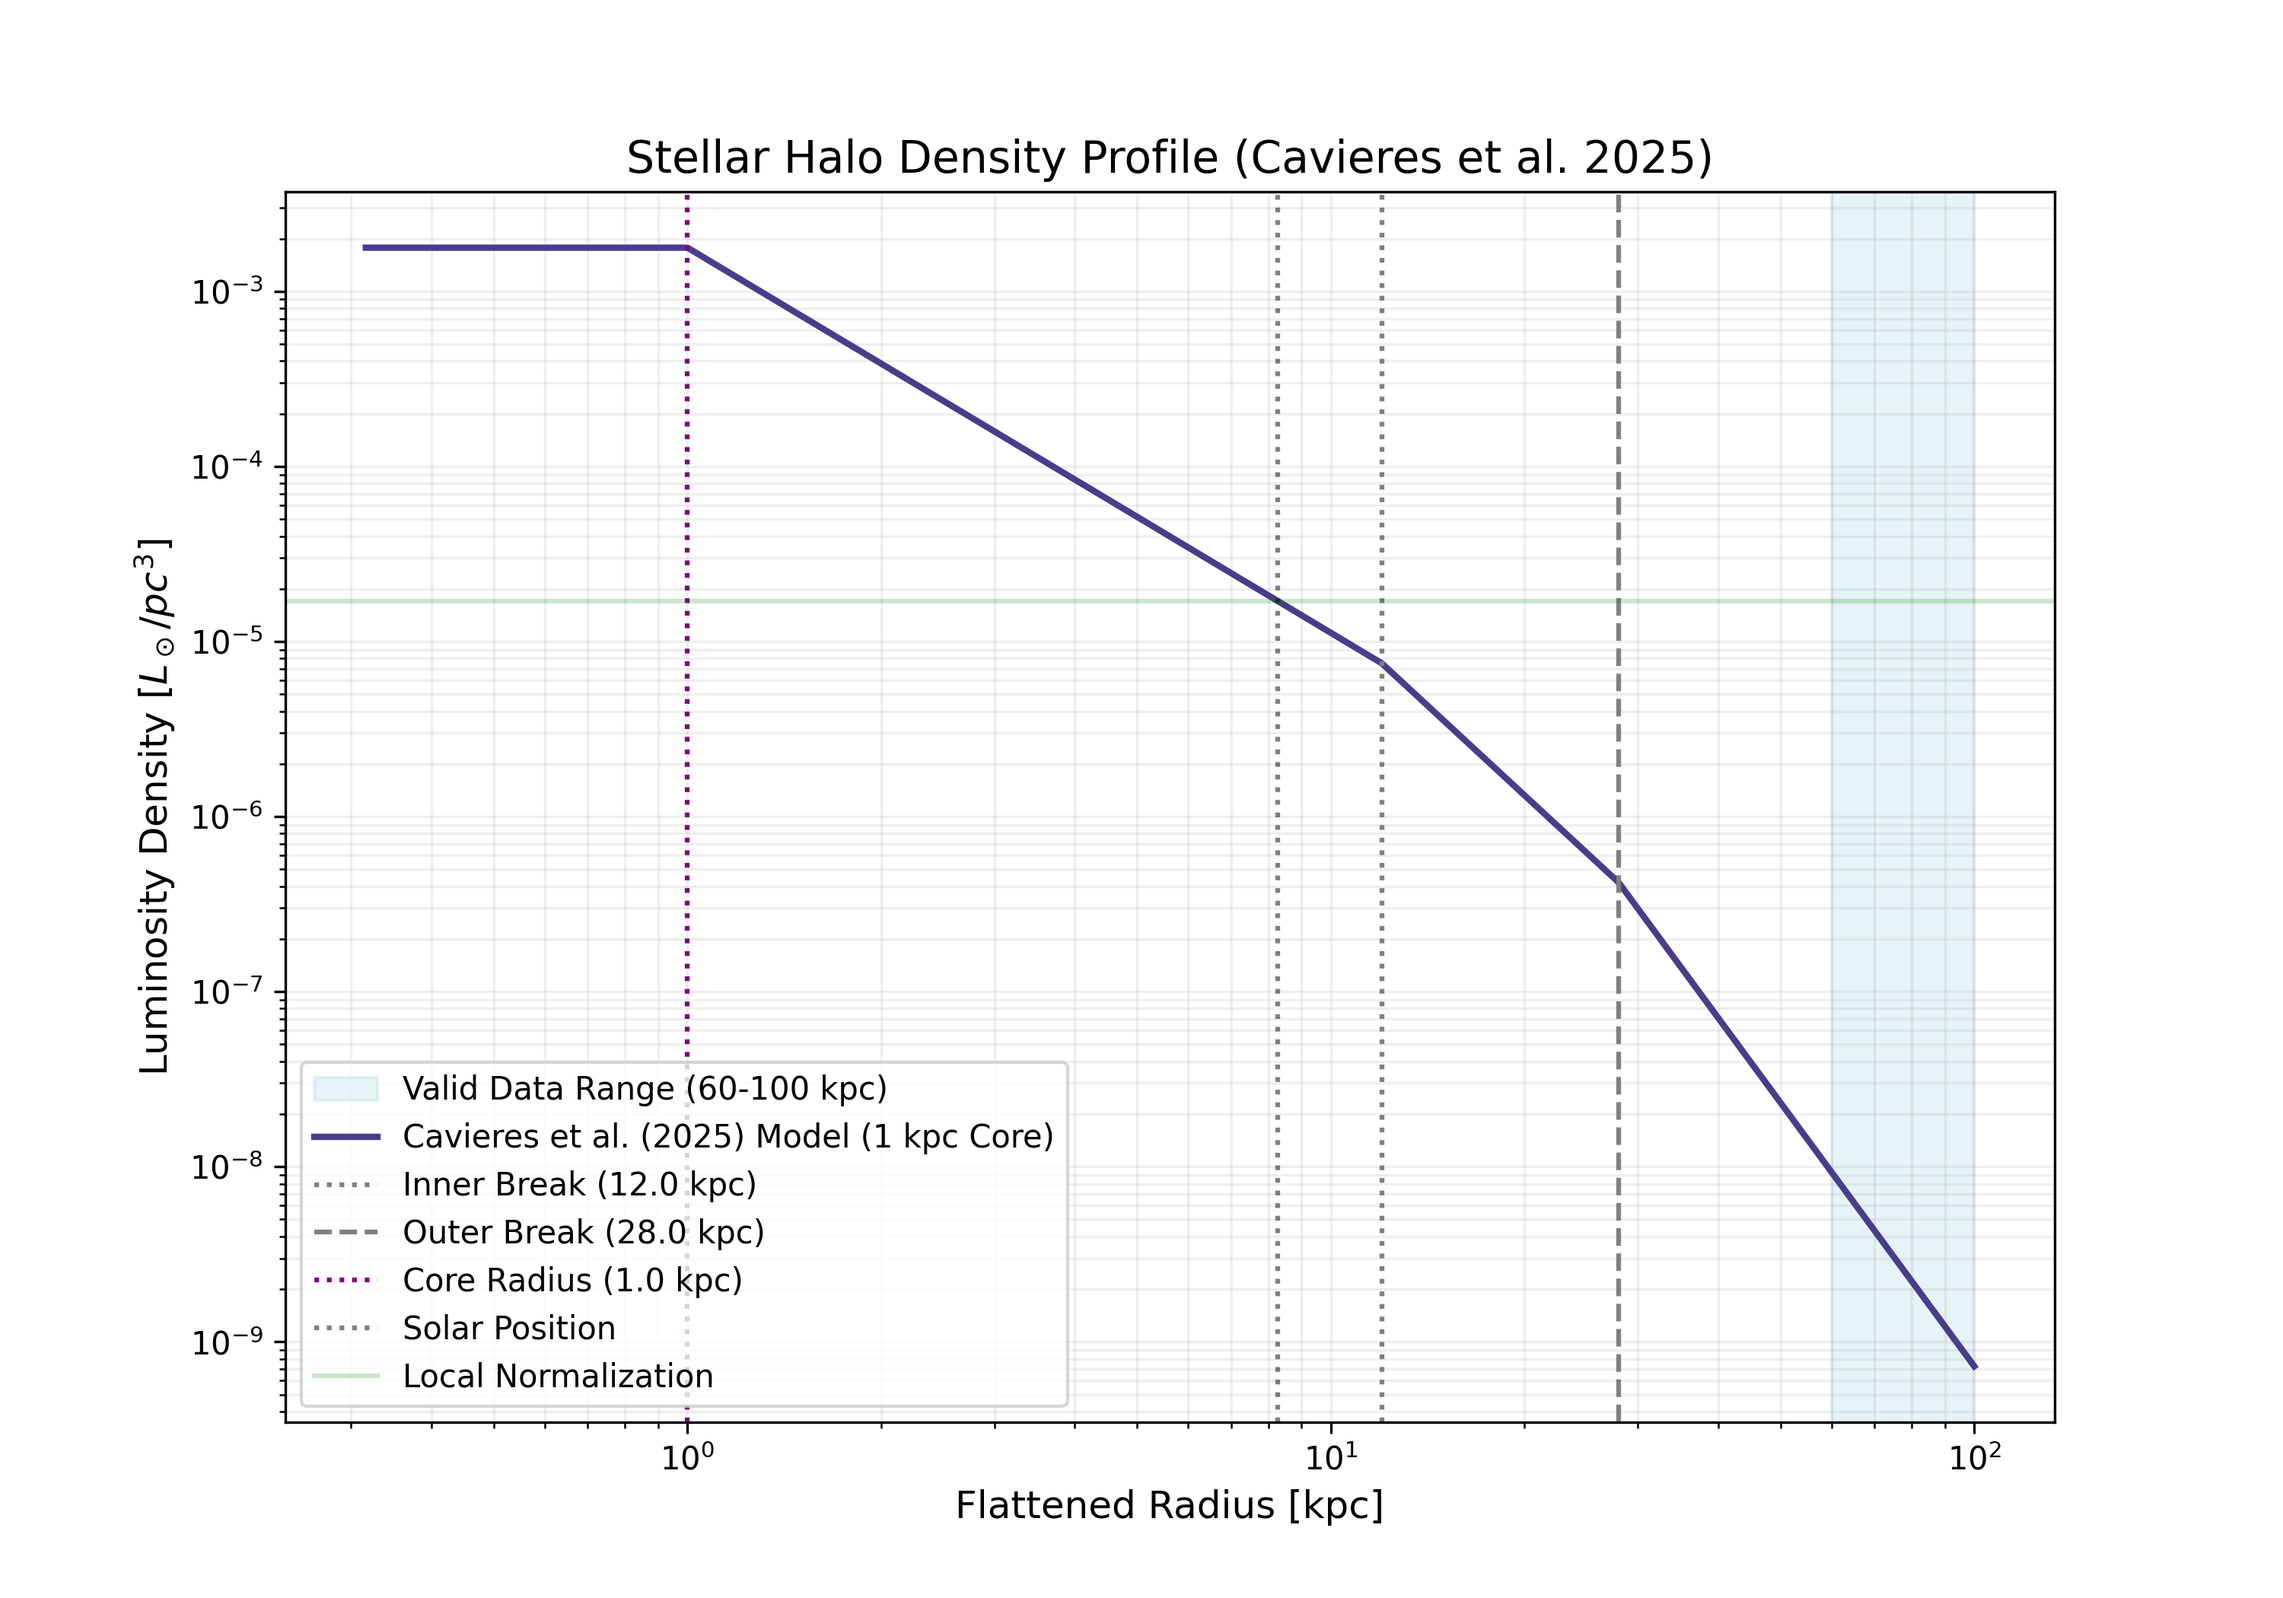
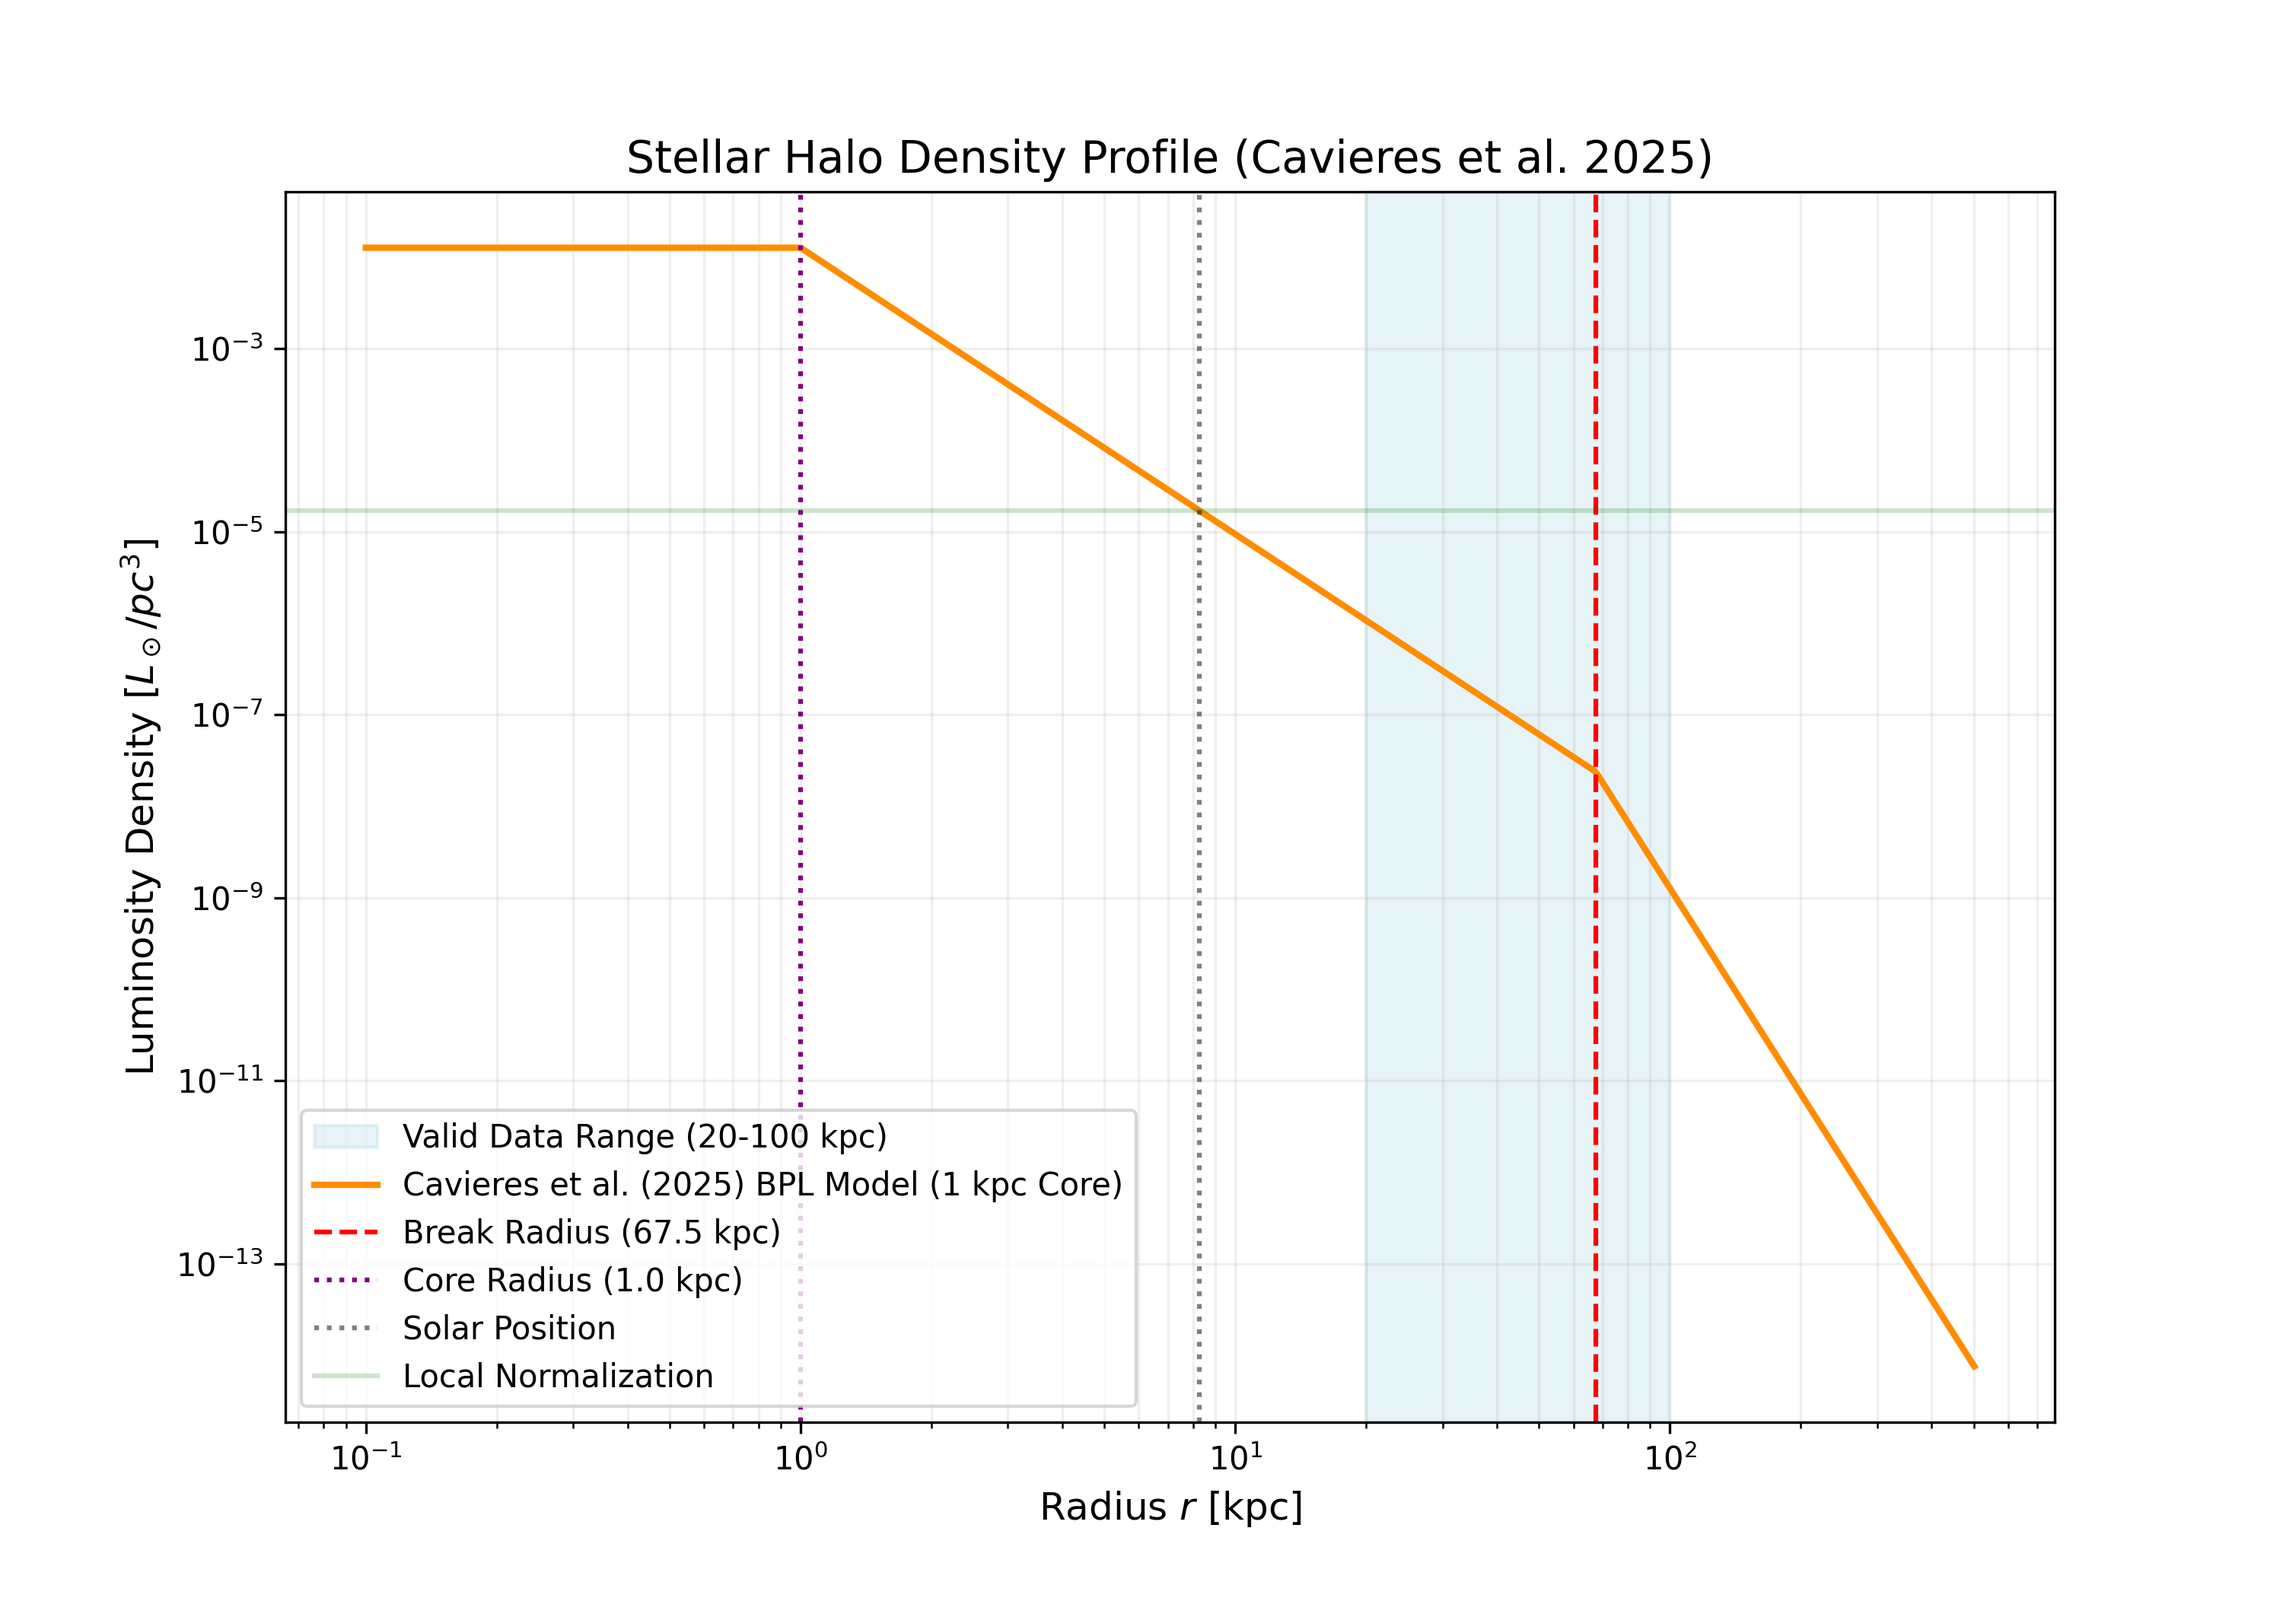
Add files via upload
Fix of the Cavieres at al paper, which PL noticed had a lot of things wrong

diff --git a/script.js b/script.js
@@ -106,7 +106,7 @@ const ModelPhysics = {
             wu2025: (rad) => rad < 8 ? 0.4 : (rad > 25 ? 0.8 : 0.4 + 0.4 * (rad - 8) / 17),
             wu2022: (rad) => rad < 8 ? 0.4 : (rad > 25 ? 0.8 : 0.4 + 0.4 * (rad - 8) / 17),
             rix2022: 1.0,
-            cavieres2025: 0.7,
+            cavieres2025: 0.98,
             feng2024: 1.0,
             fukushima2025: 1.56,
             ye2023: 0.73,

diff --git a/assets/cavieres2025_density_model.py b/assets/cavieres2025_density_model.py
@@ -1,81 +1,78 @@
 import numpy as np
 import matplotlib.pyplot as plt
+from scipy.integrate import quad
 
 def calculate_cavieres2025_halo():
-    # Parameters from Cavieres et al. (2025) - ApJ 983, 83
-    # Model: Doubly Broken Power Law (Tilted Triaxial GSE focus)
-    a1, a2, a3 = 2.2, 3.4, 5.0
-    rb1, rb2 = 12.0, 28.0
+    # Parameters from Cavieres et al. (2025) - ApJ 983, 83 (Section 5.2)
+    # Model: Triaxial Broken Power Law
+    alpha_in = 3.13
+    alpha_out = 7.46
+    r_break = 67.5
     r_core = 1.0   # 1 kpc constant density core (project requirement)
     
-    # Flattening q ~ 0.7. Triaxial 10:8:7.
-    q = 0.7 
-    p = 0.8
+    # Geometry: b/a = p, c/a = q
+    p = 1.0        
+    q = 0.98       
+    
     R_sun = 8.275 
 
     # User local norm
     rho_local_Lsun_pc3 = 1.7e-5
     rho_local_Lsun_kpc3 = rho_local_Lsun_pc3 * (1000**3)
 
-    # Doubly Broken Power Law Profile with Core
+    # Broken Power Law Profile with Core
     def profile(r):
         if r < r_core:
-            return r_core**-a1
-        elif r < rb1:
-            return r**-a1
-        elif r < rb2:
-            return (rb1**(a2-a1)) * (r**-a2)
+            r_eff = r_core
         else:
-            C = rb1**(a2-a1)
-            return (C * rb2**(a3-a2)) * (r**-a3)
+            r_eff = r
+            
+        if r_eff < r_break:
+            return r_eff**-alpha_in
+        else:
+            return (r_break**(alpha_out - alpha_in)) * (r_eff**-alpha_out)
 
-    # Normalization at the Sun
+    # Normalization at the Sun (Sun is at 8.275 kpc, well inside r_break)
     norm_at_sun = profile(R_sun)
     rho_0 = rho_local_Lsun_kpc3 / norm_at_sun
 
-    # Analytical Integration for Luminosity
+    # Numerical Integration for Luminosity
     # L = 4 * pi * p * q * Integral[ rho(r) * r^2 dr ]
+    def integrand(r):
+        return profile(r) * r**2
     
-    # Part 0: 0 to r_core
-    int0 = (r_core**-a1) * (r_core**3 / 3.0)
-    # Part 1: r_core to rb1
-    int1 = (rb1**(3-a1) - r_core**(3-a1)) / (3-a1)
-    # Part 2: rb1 to rb2
-    C = rb1**(a2-a1)
-    int2 = C * (rb2**(3-a2) - rb1**(3-a2)) / (3-a2)
-    # Part 3: rb2 to infinity
-    D = C * rb2**(a3-a2)
-    int3 = D * (0 - rb2**(3-a3)) / (3-a3)
+    # Integrate from 0 to 500 kpc
+    result, error = quad(integrand, 0.0, 500.0)
+    L_total = 4 * np.pi * p * q * rho_0 * result
 
-    L_total = 4 * np.pi * p * q * rho_0 * (int0 + int1 + int2 + int3)
-
-    print(f"--- Cavieres et al. (2025) - The Distant Milky Way Halo from the Southern Hemisphere ---")
-    print(f"Central Norm (rho_0 at 1kpc): {rho_0:.2e} Lsun/kpc^3")
-    print(f"Total Halo Luminosity:        {L_total:.2e} Lsun")
-    print(f"Break Radii:                  {rb1} kpc, {rb2} kpc")
-    print(f"Core Radius:                  {r_core} kpc")
-    print(f"Power-law Indices:            {a1}, {a2}, {a3}")
-    print(f"Flattening (p, q):            {p}, {q}")
-    print(f"Tilt:                         25 degrees")
-    print(f"---------------------------------------------------")
+    print(f"--- Cavieres et al. (2025) Southern Hemisphere Halo Properties ---")
+    print(f"Model:                Triaxial Broken Power Law")
+    print(f"Central Norm (rho_0): {rho_0:.2e} Lsun/kpc^3")
+    print(f"Total Halo Luminosity: {L_total:.2e} Lsun")
+    print(f"Alpha In:             {alpha_in}")
+    print(f"Alpha Out:            {alpha_out}")
+    print(f"Break Radius:         {r_break} kpc")
+    print(f"Core Radius:          {r_core} kpc")
+    print(f"Flattening (p, q):    {p}, {q}")
+    print(f"Valid Range:          20 - 100 kpc")
+    print(f"------------------------------------------------------------------")
 
     # Plotting
-    r_vals = np.logspace(-0.5, 2, 500)
+    r_vals = np.logspace(-1, 2.7, 500)
     rho_vals = np.array([rho_0 * profile(r) for r in r_vals])
 
     plt.figure(figsize=(10, 7))
-    plt.axvspan(60, 100, color='lightblue', alpha=0.3, label='Valid Data Range (60-100 kpc)')
-    plt.loglog(r_vals, rho_vals / (1000**3), color='darkslateblue', linewidth=2, label='Cavieres et al. (2025) Model (1 kpc Core)')
+    plt.axvspan(20, 100, color='lightblue', alpha=0.3, label='Valid Data Range (20-100 kpc)')
+    plt.loglog(r_vals, rho_vals / (1000**3), color='darkorange', linewidth=2, label='Cavieres et al. (2025) BPL Model (1 kpc Core)')
     
     # Markers
-    plt.axvline(rb1, color='gray', linestyle=':', label=f'Inner Break ({rb1} kpc)')
-    plt.axvline(rb2, color='gray', linestyle='--', label=f'Outer Break ({rb2} kpc)')
+    plt.axvline(r_break, color='red', linestyle='--', label=f'Break Radius ({r_break} kpc)')
     plt.axvline(r_core, color='purple', linestyle=':', label=f'Core Radius ({r_core} kpc)')
     plt.axvline(R_sun, color='black', linestyle=':', alpha=0.5, label='Solar Position')
     plt.axhline(rho_local_Lsun_pc3, color='green', linestyle='-', alpha=0.2, label='Local Normalization')
 
     plt.title('Stellar Halo Density Profile (Cavieres et al. 2025)', fontsize=14)
-    plt.xlabel('Flattened Radius [kpc]', fontsize=12)
+    plt.xlabel('Radius $r$ [kpc]', fontsize=12)
     plt.ylabel('Luminosity Density [$L_\\odot/pc^3$]', fontsize=12)
     plt.legend(frameon=True)
     plt.grid(True, which="both", ls="-", alpha=0.2)
